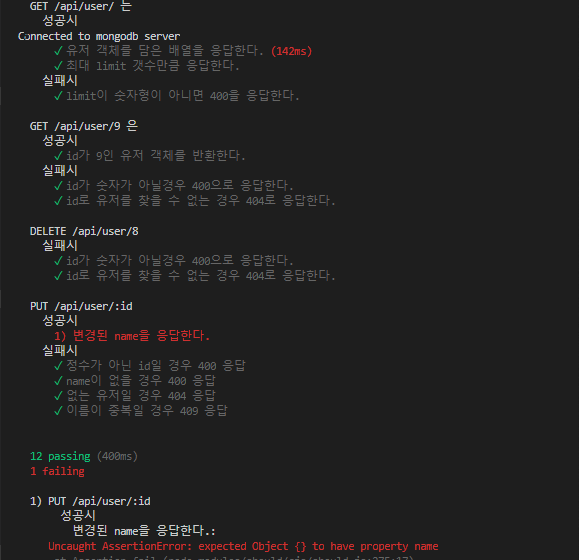
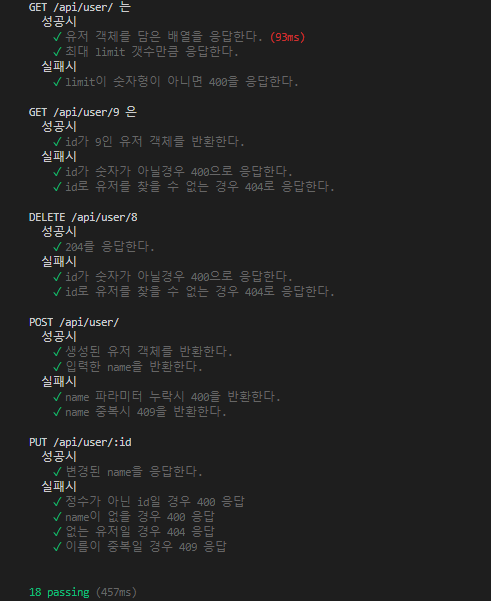
readmeImg set

Changed region(s): [[0.0305, 0.0, 0.7637, 1.0], [0.5499, 0.0304, 0.611, 0.0911]]

diff --git a/server/routes/user.spec.js b/server/routes/user.spec.js
@@ -75,14 +75,14 @@ describe('GET /api/user/9 은', _=>{
 })
 
 describe('DELETE /api/user/8', _=>{
-    // describe('성공시', _=>{
-    //     it('204를 응답한다.', (done)=>{
-    //         request(app)
-    //         .delete('/api/user/8')
-    //         .expect(204)
-    //         .end(done);
-    //     })
-    // })
+    describe('성공시', _=>{
+        it('204를 응답한다.', (done)=>{
+            request(app)
+            .delete('/api/user/16')
+            .expect(204)
+            .end(done);
+        })
+    })
     describe('실패시', _=>{
         it('id가 숫자가 아닐경우 400으로 응답한다.', (done)=>{
             request(app)
@@ -98,10 +98,10 @@ describe('DELETE /api/user/8', _=>{
         })
     })
 })
-/*
+
 describe('POST /api/user/', _=>{
     describe('성공시', _=>{
-        let name = 'post1'
+        let name = 'post321'
         let body;
         before(done=>{
             request(app)
@@ -137,10 +137,10 @@ describe('POST /api/user/', _=>{
         })
     })
 })
-*/
+
 describe('PUT /api/user/:id', _=>{
     describe('성공시', _=>{
-        const name = 'kakkakaaakao'
+        const name = 'talktome123'
         it('변경된 name을 응답한다.', (done)=>{
             request(app)
             .put('/api/user/9')

diff --git a/server/main.js b/server/main.js
@@ -18,12 +18,12 @@ if(process.env.NODE_ENV !== 'test'){
 app.use(bodyParser.json());
 app.use(bodyParser.urlencoded({extended:true}));
 
-/*
+
 const db = mongoose.connection;
 db.on('error', console.error);
-db.once('open', _=> console.log('Connected to mongodb server') );
+db.once('open', _=> {/*console.log('Connected to mongodb server')*/} );
 mongoose.connect('mongodb://localhost/node_tdd');
-*/
+
 
 
 app.use('/api', api)

diff --git a/bin/www.js b/bin/www.js
@@ -1,13 +1,16 @@
 const app = require('../server/main');
 
-const syncDb = require('./sync_db');
+// const syncDb = require('./sync_db');
 
 const port = process.env.port || 4000;
 
+app.listen(port, ()=>{
+    console.log(`express on ${port}`)
+})
+
+/*
 syncDb
 .then(_=>{
     console.log('Sync Database!')
-    app.listen(port, ()=>{
-        console.log(`express on ${port}`)
-    })
 })
+*/
